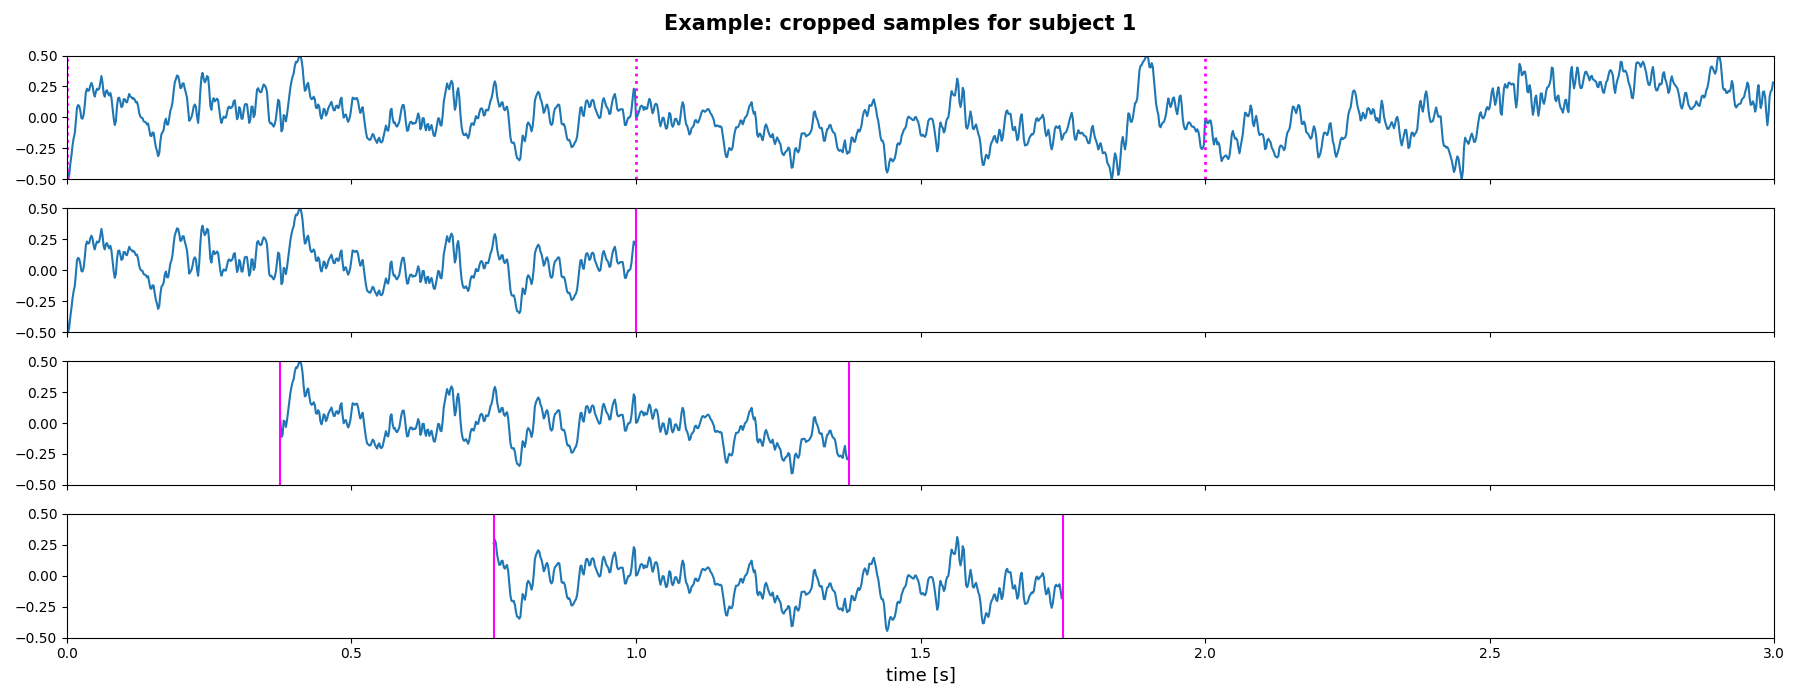
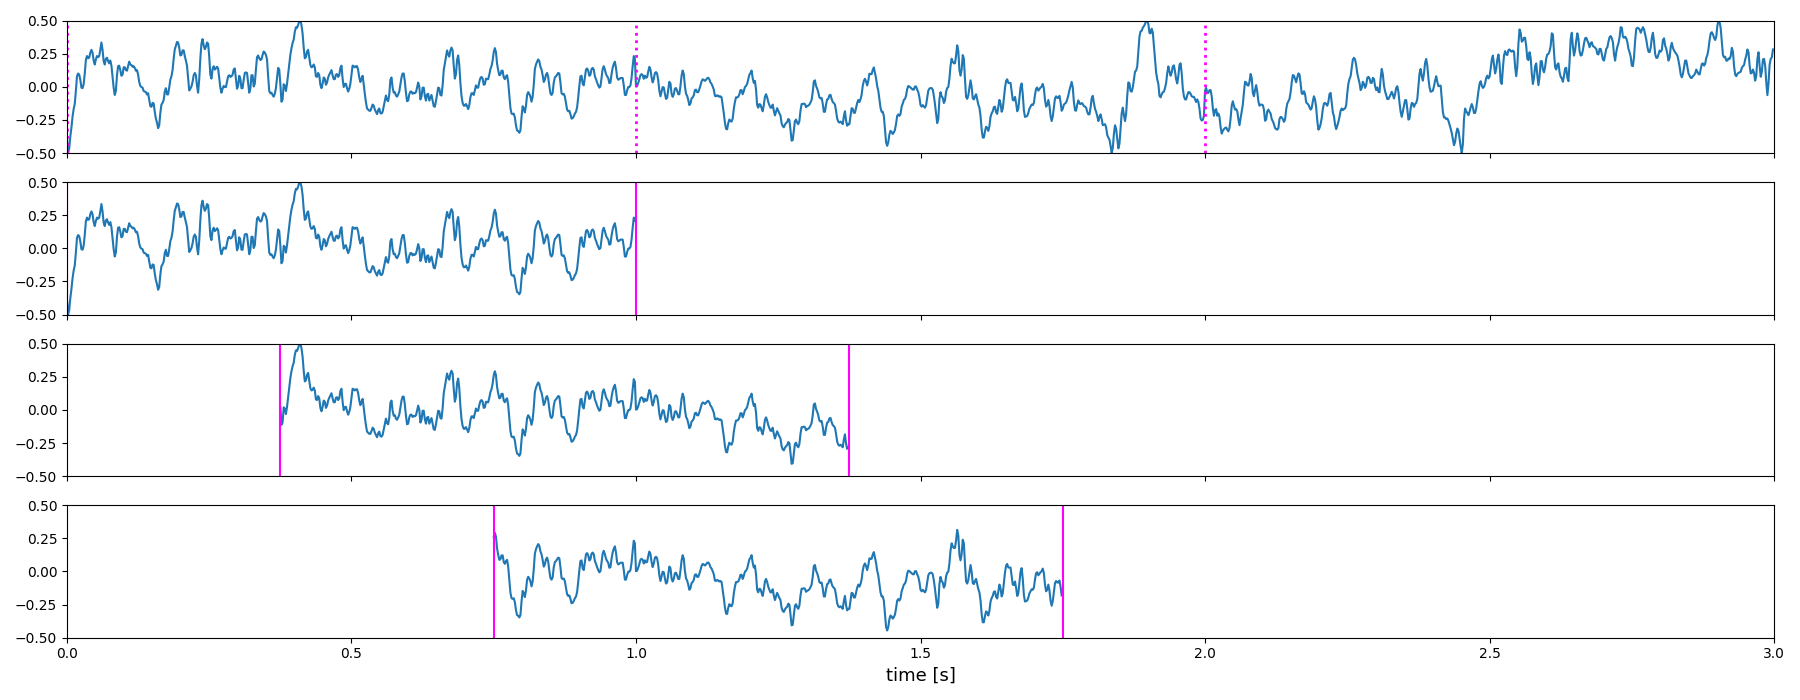
fix figure titles and note

diff --git a/README.md b/README.md
@@ -19,11 +19,15 @@ To increase the number of available training samples, a cropped training strateg
 "colorRound" stimulus were concatenated in chronological order. New 1-second samples were then generated as sliding time windows, such that the start and end of each sample i+1 
 was shifted by 375 ms in relation to sample i.
 
+<b>Figure 1</b>
+
+<i>Data Augmentation by Cropping</i>
+
 ![Plot illustrating the data augmentation procedure](data_augmentation_example.png)
 
-<i>Figure 1. The first 3 original samples recorded for subject 1 during the color task are shown in the first subplot; 
+<p><i>Note.</i> The first 3 original samples recorded for subject 1 during the color task are shown in the first subplot; 
 followed by subplots displaying the first 3 training samples generated by the cropping process (offset=375 ms). 
-Dotted pink lines in the first subplot mark the original sample borders. EEG values have been scaled to fall in the [-0.5, 0.5] range.</i>
+Dotted pink lines in the first subplot mark the original sample borders. EEG values have been scaled to fall in the [-0.5, 0.5] range.</p>
 
 ## Model Architecture
 
@@ -40,8 +44,6 @@ The idea was for the paths to "collaborate" by focusing on different features in
 <i>Architecture of the Model</i>
 
 ![Depiction of model architecture](model_architecture_plot.png)
-
-<i>Figure 2. Architecture of the model.</i>
 
 ## Performance
 
